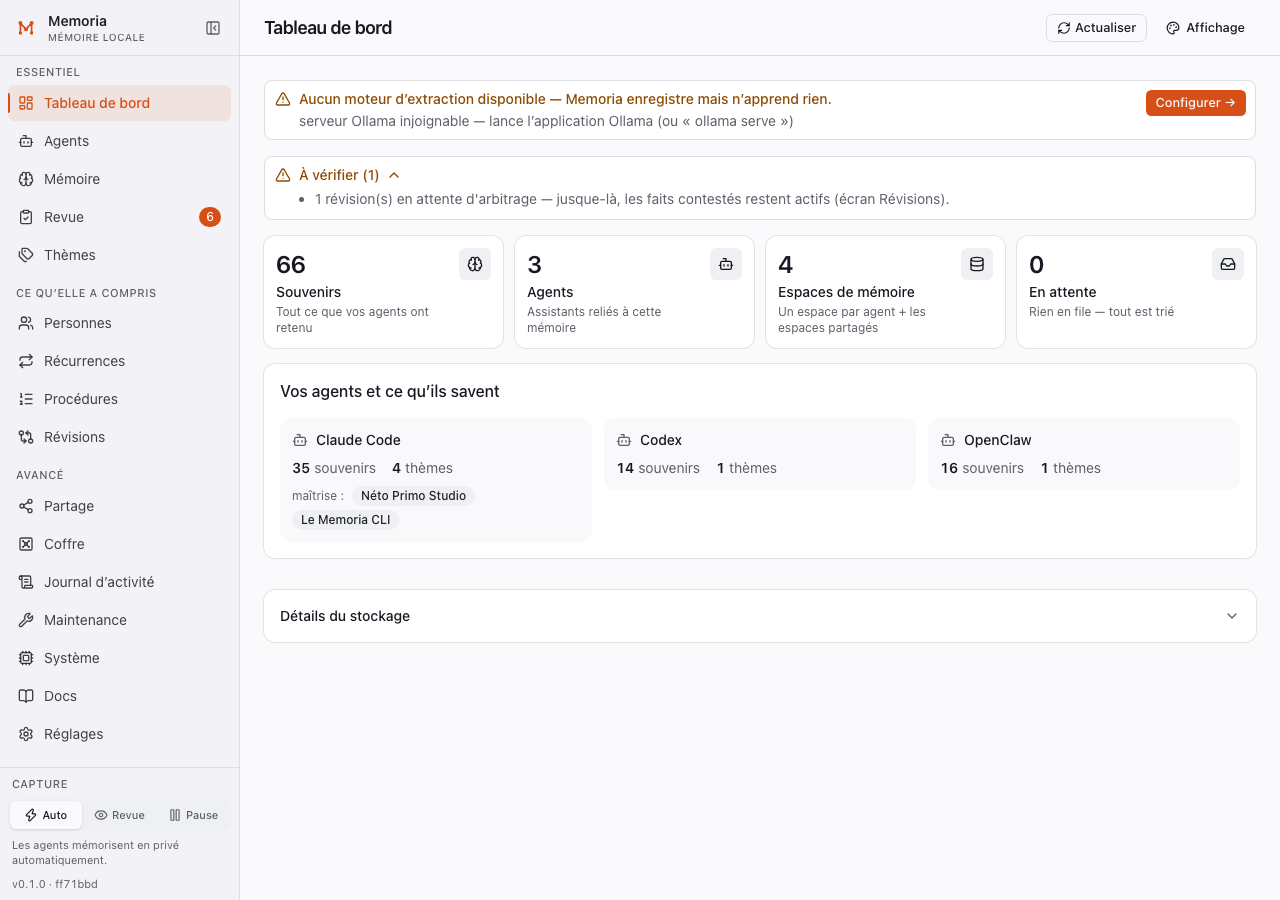
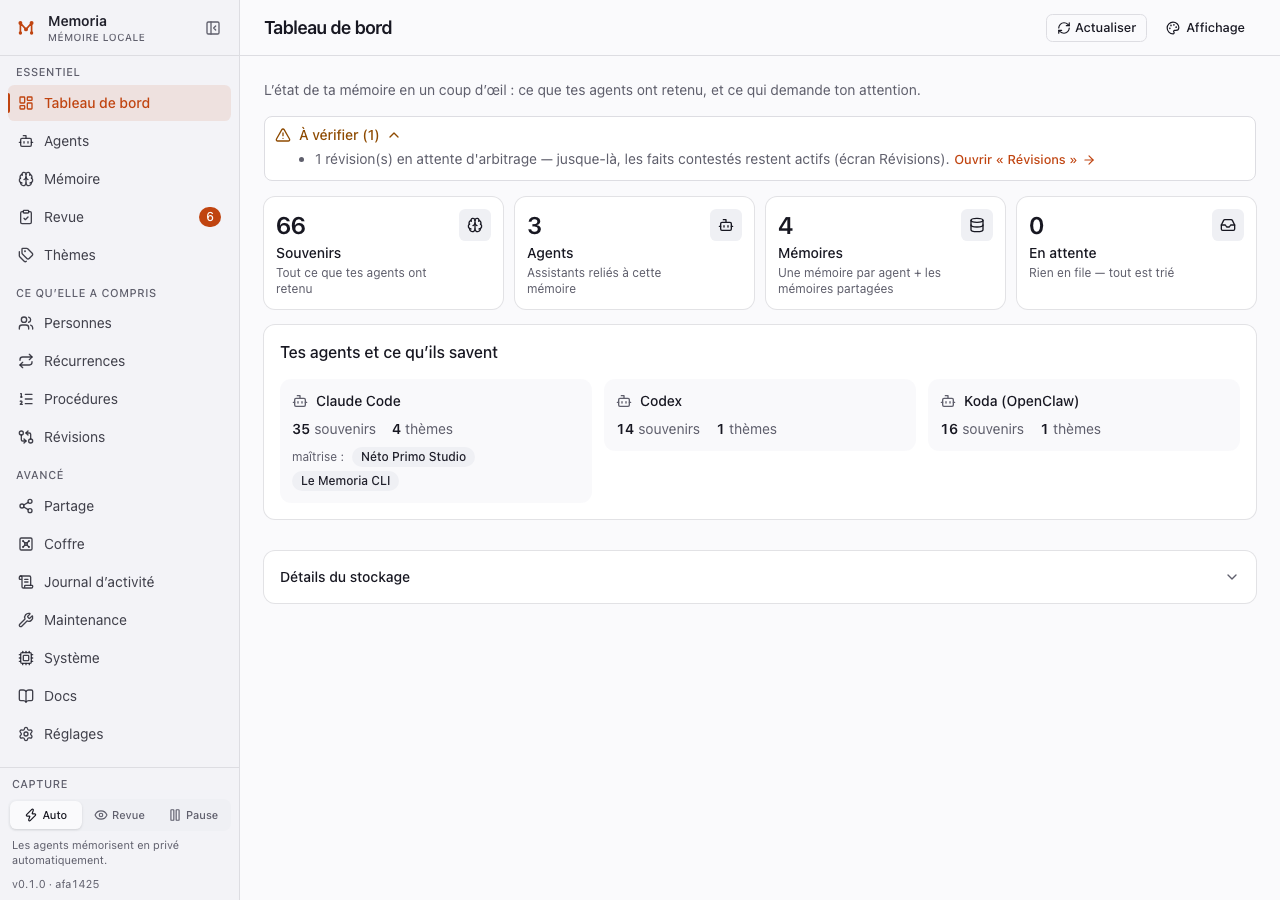
docs(web): consigner dans UI-GUIDE ce que cette passe de finitions a appris
Trois règles que les écrans existants ont enfreintes et que le prochain écran
enfreindrait sans elles :

- l'intro d'un écran passe par `description` (désormais un `ReactNode`) et
  jamais par `children`, sinon elle repasse SOUS les actions au téléphone ;
- le plancher tactile de 44 px n'est pas dans la taille par défaut du bouton :
  `className="max-sm:h-11"`, pas `size="sm"` qui désaligne le bureau. Le fait
  que `Input` et `Select` soient à 32 px au doigt partout est consigné comme
  connu et non traité ;
- dans une liste dense, c'est la LIGNE qui prend le clic et pas la pastille de
  16-18 px — avec le piège du `<label>` inopérant sur les contrôles Radix, et
  celui du pseudo-élément qui déborde sur les lignes voisines.

Captures de référence du Tableau de bord régénérées. À noter pour qui les
compare : le bandeau « moteur indisponible » n'y figure plus parce qu'Ollama
répondait sur la machine au moment de la capture — ce n'est pas une perte de
bloc, l'alerte est conditionnée à `health.extraction.available`.

Claude-Session: https://claude.ai/code/session_01DxtKmQxD6tSBbcPWuFY5H7

diff --git a/packages/web/UI-GUIDE.md b/packages/web/UI-GUIDE.md
@@ -30,7 +30,12 @@ technicien — chaque décision ci-dessous sert la lisibilité, pas la technique
    ```
    Le titre est **projeté dans la barre supérieure** (portail,
    `app/shell-context.ts`) : ne pas rendre de `<h1>` ailleurs. Les actions y
-   vont aussi sur bureau, et descendent en tête de page sous 768 px.
+   vont aussi sur bureau, et descendent en tête de page sous 768 px — **après**
+   la description, jamais avant : au téléphone, l'écran doit s'ouvrir sur la
+   phrase qui dit à quoi il sert, pas sur un bouton seul dans une bande vide.
+   L'intro passe donc TOUJOURS par `description` (qui accepte un `ReactNode`,
+   pour mettre un mot en gras) et jamais par `children` : rendue en `children`,
+   elle repasserait sous les actions.
 2. **Structurer en `SectionCard`** (un bloc titré par sujet) :
    ```tsx
    <SectionCard title={t('agents.list.title')} description={…} actions={…}>
@@ -91,7 +96,19 @@ technicien — chaque décision ci-dessous sert la lisibilité, pas la technique
 - **Feuille de style maison** : il n'y en a plus (l'ancien `styles.css` a été
   supprimé une fois les 16 écrans réécrits). Tout passe par Tailwind + `ui/*`.
 - **Cible tactile sous 44 px** au téléphone : `size="sm"` porte déjà le plancher
-  (`max-sm:h-11`), ne le neutralise pas avec une hauteur en dur.
+  (`max-sm:h-11`), ne le neutralise pas avec une hauteur en dur. La taille par
+  défaut (`h-8`) ne l'a PAS : sur un bouton d'action au téléphone, ajoute
+  `className="max-sm:h-11"` (et non `size="sm"`, qui vaut 28 px sur bureau et
+  désaligne le bouton du champ voisin). Connu et non traité : `Input` et
+  `Select` sont à 32 px au doigt sur tous les écrans.
+- **Pastille cliquable seule** dans une liste dense : c'est la LIGNE (ou le
+  texte de la carte) qui prend le clic, pas la case ou l'interrupteur de 16-18 px
+  — voir `Sharing.tsx` et `MemFactCard.tsx`. Un `<label>` ne suffit pas : les
+  contrôles Radix sont des `<button role="switch">`, on passe donc par un
+  `onClick` sur le conteneur, avec `stopPropagation` sur le contrôle. **Aucune
+  capture ne prouve qu'une zone est cliquable** : ça se vérifie dans le
+  navigateur. Et n'agrandis pas le pseudo-élément `after` d'un interrupteur dans
+  une liste de lignes de 41 px : il déborderait sur les lignes voisines.
 - **Largeur qui déborde** : un contenu large (tableau, chemin, JSON) défile dans
   son conteneur (`overflow-x-auto`), jamais la page.
 - **Styles inline** pour la couleur ou l'espacement.
